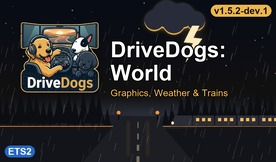
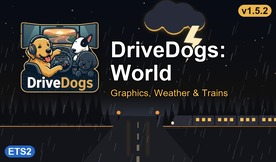
release world 1.5.2 after the playtest: brighter dawn and dusk rain, dbm road signs 2.3 re-upload
The maintainer checked 1.5.2-dev.1 in game and found dawn/dusk rain good: the picture reaches its
brightness and the headlight beam shows again. The dev.1 archive already carried DBM Road Signs' three
padded textures from the shared extraction, so this release adds no content over it beyond the
changelog line.

- version 1.5.2, cover badge v1.5.2
- README: current content v1.5.2, with the dawn/dusk rain view

Changed region(s): [[0.7536, 0.0, 0.9855, 0.1235]]

diff --git a/README.md b/README.md
@@ -4,7 +4,7 @@ ETS2 mod for the world around the road, built as a local **megapack** with the `
 `scs-mod-developer` agent profile. This repo holds only configuration and tools. The mod is built from the
 extracted base game, subscribed Workshop items and one local archive. It is never redistributed.
 
-Current content (v1.5.1, ETS2 1.62.1.0):
+Current content (v1.5.2, ETS2 1.62.1.0):
 
 - **Graphics** from Juninho944 (Weather_3.9, Asphalt_improved, grass_4.0_lite, tree_improved_4k), DIOX (Beautiful
   Nature), Darkcaptain (Realistic Rain) and DBM (Vegetation, Terrain Textures, Guard Rails 4K, World & Buildings HD;
@@ -17,7 +17,8 @@ Current content (v1.5.1, ETS2 1.62.1.0):
 - **Road signs and markings** from DBM Road Signs & Markings 4K; **real company and gas station brands** from Real
   companies & gas stations (MLH82, 4of25), its pre-1.62 gas-station models given 1.62's looks and price boards.
 - **Weather and time**: a rain mix of mostly light and medium rain, lighter rain fog at night so headlights reach and
-  by day and at dawn/dusk so the road ahead stays in sight, and a fixed date (27 September) for natural day and night.
+  by day and at dawn/dusk so the road ahead stays in sight, a brighter view in dawn and dusk rain so the headlights
+  show, and a fixed date (27 September) for natural day and night.
 - **People at bus stops** from d-luX's Busy Bus Stations: its people, parked bus and lamp placed on the 1.62
   bus-stop models (not its 2022 copies of them).
 - **Trains**: Realistic Train Lengths and Cip's Real Train Sounds, rebuilt on the 1.62 game files.
